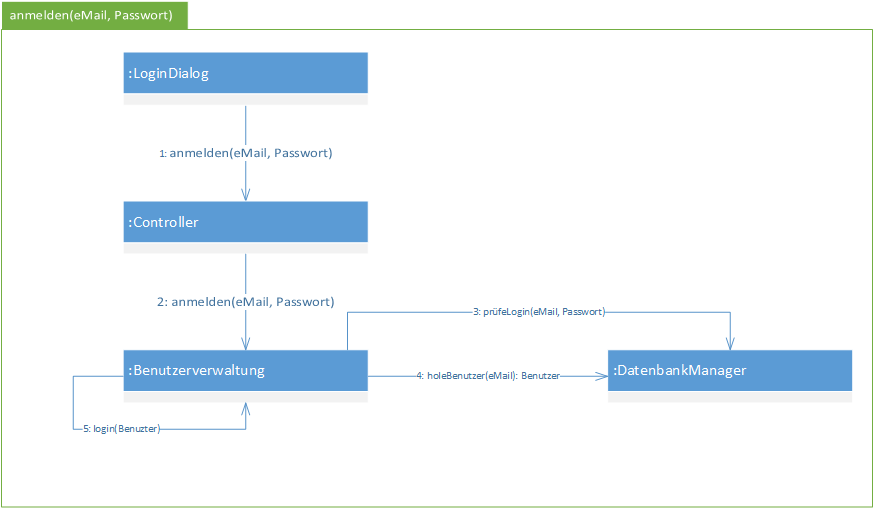
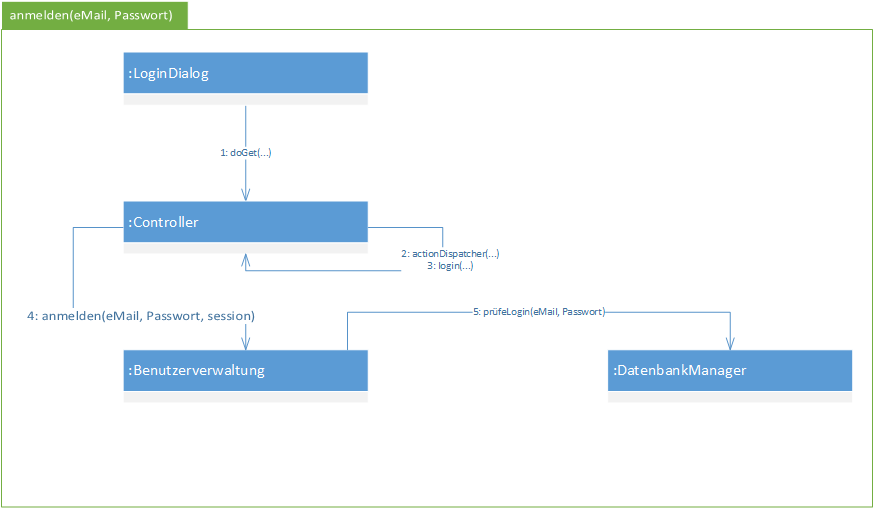
bilder erstellt, texdokument erweitert.

diff --git a/Aufgabenblaetter/Teilsystem/Teilentwurf.tex b/Aufgabenblaetter/Teilsystem/Teilentwurf.tex
@@ -5,6 +5,7 @@
 \usepackage{graphicx}			% Bilder einbinden
 \usepackage[ngerman]{babel} 	% Deutscht alles ein
 \usepackage{pdflscape}			% Querformat
+\usepackage[section]{placeins}	% Verhindert das Gleiten von Bildern in andere Sections
 
 \parindent 0px					% Einrückung von absätzen auf 0
 
@@ -22,7 +23,7 @@
 \chapter{Datenbankentwurf}
 
 \section{Datebankdiagramm}
-\begin{figure}[H]
+\begin{figure}[h]
 	\centering
 	\paragraph{Aufbau der Relationalen Datenbank}	\includegraphics[width=\textwidth]{Bilder/Datenbank/Datenbankentwurf.png}
 	\caption{Datenbankdiagramm}
@@ -64,6 +65,7 @@
 	BESCHREIBUNG	&  Speichert wie ein Benutzer über Diskussionen informiert wird.\\
 	\hline
 \end{tabular}\\\\
+
 \begin{tabular}{|lp{12cm}|}
 	\hline
 	TABELLE			&  Studiengang\\ 
@@ -79,96 +81,139 @@
 
 
 \chapter{System-Architektur}
-
 \section{Kommunikationsdiagramme}
-
-\begin{figure}[H]
+\begin{figure}[h]
 	\centering
 	\includegraphics[width=0.7\linewidth]{Bilder/Kommunikationsdiagramme/registrieren}
 	\caption{Registrierung}
 	\label{Registrierung}
 \end{figure}
 
-\begin{figure}[H]
+\begin{figure}[h]
 \centering
-\includegraphics[width=0.7\linewidth]{Bilder/Kommunikationsdiagramme/anmelden}
+\includegraphics[width=\linewidth]{Bilder/Kommunikationsdiagramme/anmelden}
 \caption{Am System anmelden}
 \label{Am System anmelden}
 \end{figure}
 
-
-\begin{figure}[H]
+\begin{figure}[h]
 \centering
-\includegraphics[width=0.7\linewidth]{Bilder/Kommunikationsdiagramme/passwortAendern}
+\includegraphics[width=\linewidth]{Bilder/Kommunikationsdiagramme/passwortAendern}
 \caption{Passwortänderung}
 \label{Passwortaenderung}
 \end{figure}
 
-
+\begin{landscape}
 \section{Klassendiagramm}
-
-\begin{figure}[H]
+\begin{figure}[!h]
 \centering
 \includegraphics[width=\textwidth]{Bilder/Klassendiagramm/Klassendiagramm}
-\caption{}
+\caption{Klassendiagramm mit Realisierungsklassen}
 \label{fig:Klassendiagramm}
 \end{figure}
-
+\end{landscape}
 
 \section{Methodenbeschreibung}
 \subsection{Controller Methoden}
 
 \begin{tabular}{|lp{12cm}|}
 	\hline
-	Operation &  \textbf{anmelden(eMail :String , password: String) }\\ 
-	Beschreibung & Methode hier sendet den Aufruf mit den entsprechechenden Daten einfach weiter an die Benutzerverwaltung. \\ 
+	Operation &  \textbf{doGet(HttpServletRequest request, HttpServletResponse response)}\\ 
+	Beschreibung & Diese Methode nimmt einen Ankommenden Request entgegen und gibt ihn an die Methode "actinDispatcher" weiter. \\ 
+	\hline 
+\end{tabular} \\\\
+
+\begin{tabular}{|lp{12cm}|}
+	\hline
+	Operation &  \textbf{actionDispatcher(HttpServletRequest request, HttpServletResponse response, HttpSession session)}\\ 
+	Beschreibung & Diese Methode verwaltet die Weiterleitung zu den jeweils verantwortlichen Methoden für die Verarbeitung der Anfragen oder sie leitet weiter zu den Dialogen. \\ 
+	\hline 
+\end{tabular} \\\\
+
+\begin{tabular}{|lp{12cm}|}
+	\hline
+	Operation &  \textbf{aenderePasswort(HttpServletRequest request, HttpServletResponse response, HttpSession session) }\\ 
+	Beschreibung & Diese Methode übernimmt die Verarbeitung der Passwort-Änderungs-Anfragen Sie liest die Parameter aus dem Request aus. Wenn diese richtig angegeben sind wird die Anfrage an die Benutzerverwaltung weitergegeben. Je nachdem ob dies erfolgreich war, wird dann auf die Seite weitergeleitet oder der Benutzer landet wieder beim gleichen Dialog, wenn ein Fehler auftrat.\\ 
 	\hline 
 \end{tabular} \\\\
 	
-
 \begin{tabular}{|lp{12cm}|}
 	\hline
-	Operation &  \textbf{registrieren(user:Benutzer): Boolean) }\\ 
-	Beschreibung & Methode hier sendet den Aufruf mit den entsprechechenden Daten einfach weiter an die Benutzerverwaltung. \\ 
-	\hline 
-	\end{tabular} \\\\
-
-\begin{tabular}{|lp{12cm}|}
-	\hline
-	Operation &  \textbf{passwortAendern(user:Benutzer, altesPasswort:String, neuesPasswort:String): Boolean) }\\ 
-	Beschreibung & Methode hier sendet den Aufruf mit den entsprechechenden Daten einfach weiter an die Benutzerverwaltung. \\ 
+	Operation &  \textbf{login(HttpServletRequest request, HttpServletResponse response, HttpSession session)}\\ 
+	Beschreibung & Diese Methode übernimmt die Login-Anfragen. Sie liest die Parameter aus und leitet die Anfrage an die Benutzerverwaltung weiter. Es wird entweder auf die Startseite oder wieder die Loginseite weitergeleitet. \\ 
 	\hline 
 \end{tabular} \\\\
 
+\begin{tabular}{|lp{12cm}|}
+	\hline
+	Operation &  \textbf{logout(HttpServletRequest request, HttpServletResponse response, HttpSession session)}\\ 
+	Beschreibung & Diese Methode übernimmt die Logout-Anfragen. Sie liest die Parameter aus und leitet die Anfrage an die Benutzerverwaltung weiter. Es wird auf die Loginseite weitergeleitet. \\ 
+	\hline 
+\end{tabular} \\\\
+
+\begin{tabular}{|lp{12cm}|}
+	\hline
+	Operation &  \textbf{registrieren(HttpServletRequest request, HttpServletResponse response)}\\ 
+	Beschreibung & Diese Methode übernimmt die Registrierungsanfragen. Sie liest die Parameter aus und leitet die Anfrage an die Benutzerverwaltung weiter. Es wird auf die Loginseite weitergeleitet. \\ 
+	\hline 
+\end{tabular} \\\\
+
+\begin{tabular}{|lp{12cm}|}
+	\hline
+	Operation &  \textbf{userValid(Benutzer b, HttpServletRequest request): Boolean}\\ 
+	Beschreibung & Diese Methode prüft, ob die gespeicherten Benutzerdaten gültig sind. Sie prüft ob alle Werte gesetzt sind und ob die eMail bspw. ein \@ und einen Punkt enthält. \\ 
+	\hline 
+\end{tabular} \\\\
+
+\begin{tabular}{|lp{12cm}|}
+	\hline
+	Operation &  \textbf{isEmpty(String s)}\\ 
+	Beschreibung & Diese Methode prüft, ob der übergeben String null ist oder ob es ein Leerstring ist. \\ 
+	\hline 
+\end{tabular} \\\\
 
 \subsection{Benutzerverwaltung  Methoden}
 
 \begin{tabular}{|lp{12cm}|}
 	\hline
-	Operation &  \textbf{getBenutzer(sessionID:String): Benutzer) }\\ 
-	Beschreibung & Liefert das Benutzerobjekt zur entsprechenden Session-ID zurück. Wenn die Benutzerverwaltung diese SessionID nicht kennt ist der Benutzer nicht angemeldet und es wird null zurückgeliefert. Die Benutzerverwaltung merkt sich die Zuweisung zwischen SessionID und eMail-Adresse und kann somit über den DatenbankManager den gewünschten Benutzer übergeben. \\ 
+	Operation &  \textbf{getBenutzer(HttpSession: session): Benutzer) }\\ 
+	Beschreibung & Liefert das Benutzerobjekt zur entsprechenden Session zurück. Wenn die eMail-Addresse in der Session gespeichert ist, ist der Benutzer angemeldet. Dann wird das komplette Benutzerobjekt mit Hilfe des DB-Managers geladen und zurückgeliefert. Wenn ein Fehler auftritt wird null zurückgegeben.\\
 	\hline 
 \end{tabular} \\\\
 
 
 \begin{tabular}{|lp{12cm}|}
 	\hline
-	Operation &  \textbf{anmelden(eMail:String, passwort:String) }\\ 
-	Beschreibung & Auf Grundlage von der SessionID Benutzer-eMail und dem dazugehörigen Passwort wird der Benutzer an dem System angemeldet.\\ 
+	Operation &  \textbf{anmelden(eMail:String, passwort:String, HttpSession: session) }\\ 
+	Beschreibung & Meldet den Benutzer mit Passwort und eMail im System an. Die eMail wird in der aktuellen Session gespeichert um einen Verweis auf den Benutzer zu haben. \\ 
 	\hline 
 \end{tabular} \\\\
 
 \begin{tabular}{|lp{12cm}|}
 	\hline
 	Operation &  \textbf{registrieren(user:Benutzer): Boolean) }\\ 
-	Beschreibung & Registrierung bekommt einen Benutzerobjekt mit allen Attributen die im Klassendiagamm dargestellt sind.Falls der Benutzer noch nicht existiert wirde dieser neun in der Datenbank angelegt. \\ 
+	Beschreibung & Ruft beim Datenbankmanager "speichereBenutzer" auf. Wenn user null ist wird eine NullPointerException geworfen. \\ 
 	\hline 
 \end{tabular} \\\\
 
 \begin{tabular}{|lp{12cm}|}
 	\hline
-	Operation &  \textbf{passwortAendern(user:Benutzer, altesPasswort:String, neuesPasswort:String): Boolean }\\ 
-	Beschreibung & \\ 
+	Operation &  \textbf{passwortAendern(HttpSession session, altesPasswort:String, neuesPasswort:String): Boolean }\\ 
+	Beschreibung & Diese Methode ändert das Passwort für den aktuell angemeldeten Benutzer, indem es den aktuellen Benutzer mit "holeBenutzer" holt, das Passwort neu setzt und den Benutzer mit Hilfe des Datenbankmanagers mit "bearbeiteBenutzer" speichert.\\ 
+	\hline 
+\end{tabular} \\\\
+
+\begin{tabular}{|lp{12cm}|}
+	\hline
+	Operation &  \textbf{abmelden(HttpSession session): Boolean }\\ 
+	Beschreibung & Falls ein Benutzer in der übergebenen Session angemeldet ist, wird die eMail aus der Session entfernt und der Benutzer somit abgemeldet. Ist der Benutzer schon ausgeloggt wird einfach false zurückgegeben.\\ 
+	\hline 
+\end{tabular} \\\\
+
+\begin{tabular}{|lp{12cm}|}
+	\hline
+	Operation &  \textbf{istEingeloggt(HttpSession session): Boolean }\\ 
+	Beschreibung & Prüft ob die eMail in der aktuellen Session enthalten ist. Wenn dies zutrifft ist der Benutzer angemeldet.\\ 
 	\hline 
 \end{tabular} \\\\
 
@@ -220,7 +265,6 @@
 	Beschreibung & \\ 
 	\hline 
 \end{tabular} \\\\
-
 
 \subsection{ProfilBearbeitenDialog  Methoden}
 

diff --git a/Aufgabenblaetter/Teilsystem/Implementation/src/com/lise/ctrl/Controller.java b/Aufgabenblaetter/Teilsystem/Implementation/src/com/lise/ctrl/Controller.java
@@ -440,7 +440,8 @@ public class Controller extends HttpServlet {
 			request.setAttribute("studiengangNotSupported", true);
 			return false;
 		}
-		else if(isEmpty(b.getEmail()) || !b.getEmail().contains("@"))
+		else if(isEmpty(b.getEmail()) || 
+				!(b.getEmail().contains("@") && b.getEmail().contains(".")))
 		{
 			request.setAttribute("eMailInvalid", true);
 			return false;

diff --git a/Aufgabenblaetter/Teilsystem/Implementation/src/com/lise/data/Benutzerverwaltung.java b/Aufgabenblaetter/Teilsystem/Implementation/src/com/lise/data/Benutzerverwaltung.java
@@ -142,7 +142,6 @@ public class  Benutzerverwaltung implements IBenutzerverwaltung{
 			System.out.println("Benutzer wurde ausgeloggt: id war " + session.getId());
 			return true;
 		}
-		
 		return false;
 	}
 
